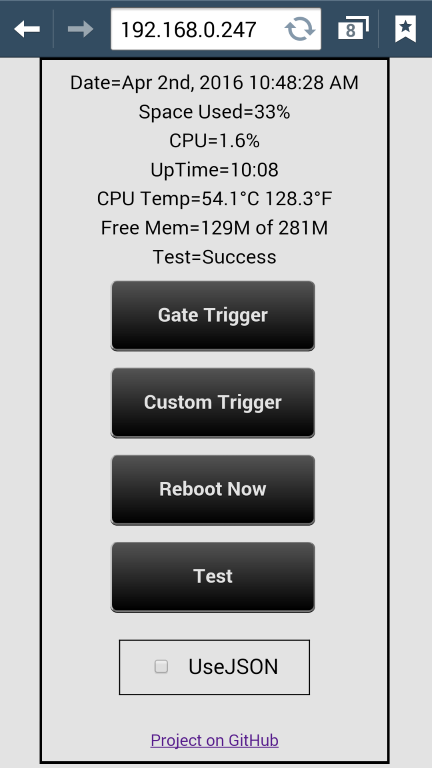
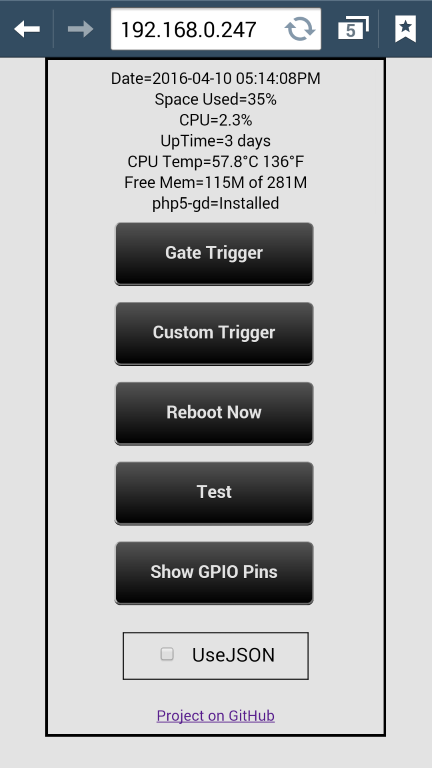
v1.0.20160410 - Changing device ID. Added more Echo functionality. Added a related GPIO status project & compatibility as the PHP is shared
v1.0.20160410 - Changing device ID to random number at end of execution
so multiple devices can point to one IP. Amazon Echo can run both
ON/main and OFF/custom functions. Added ability to output GPIO status in
PHP. Releasing another ST device that will pull the image and control
the installation of required packages hence the reset of device ID.

Changed region(s): [[0.0903, 0.0625, 0.9028, 1.0]]

diff --git a/Devices/Generic HTTP Device/index.php b/Devices/Generic HTTP Device/index.php
@@ -1,4 +1,4 @@
-<?php //v1.0.20160406
+<?php //v1.0.20160410
 
 $perform_authentication=false;
 
@@ -23,6 +23,12 @@ if ($perform_authentication) {
 		if (isset($_POST['RebootNow'])) {
 			echo "RebootNow=Failed : ";
 		}
+		if (isset($_POST['GPIO'])) {
+			echo "GPIO=Failed : ";
+		}
+		if (isset($_POST['GDInstall'])) {
+			echo "GDInstall=Failed : ";
+		}
 		die ("Authentication Required!");
 	}
 }
@@ -30,16 +36,18 @@ if ($perform_authentication) {
 
 //BUILD ARRAY VALUES
 date_default_timezone_set('America/Los_Angeles');
+//CHECK IF GD IS INSTALLED
+$gd_installed=false;
+foreach(get_loaded_extensions() as $name){ if ($name=='gd') {$gd_installed=true;}}
 $rpi = array(
-	"Date" => date("M jS, Y h:i:s A"),
+	"Date" => date("Y-m-d h:i:sA"),
 	"Space Used" => shell_exec('df -h|grep /dev/root | awk \'{print $(NF-1)}\' | tr -d \'\n\''),
 	"UpTime" => trim(substr(shell_exec('uptime'),strpos(shell_exec('uptime'), 'up')+2, strpos(shell_exec('uptime'), ',')-strpos(shell_exec('uptime'), 'up')-2)),
 	"CPU" => shell_exec('grep \'cpu \' /proc/stat | awk \'{usage=($2+$4)*100/($2+$4+$5)} END {print usage "%"}\' | sed \'s/\(\.[0-9]\).*$/\1%/g\' | tr -d \'\n\''),
 	"CPU Temp" => CPUTemp(),
-	//"CPU Temp" => function($name) {return 100;},
-	"Free Mem" => shell_exec('free -t -h | tr -s " " | grep "Total:" | awk -F " " \'{print $4 " of " $2}\' | tr -d \'\n\'')
+	"Free Mem" => shell_exec('free -t -h | tr -s " " | grep "Total:" | awk -F " " \'{print $4 " of " $2}\' | tr -d \'\n\''),
+	"php5-gd" => $gd_installed
 );
-
 function CPUTemp() {
 	$celcius = shell_exec('sudo vcgencmd measure_temp | sed "s/temp=//g" | tr -d \'\n\'');
 	$fahrenheit = round(substr(str_replace("C","",$celcius), 0, -1) * 1.8 + 32, 0) . "'F";
@@ -60,7 +68,34 @@ if (isset($_POST['RebootNow'])) {
 	shell_exec("sudo shutdown -r now");
 	$rpi = $rpi + array("RebootNow" => "Success");
 }
-
+if (isset($_POST['GDInstall']) && $rpi['php5-gd'] != "Installed") {
+	$gdinstalling = str_replace("\n","",shell_exec('sudo ps -ef | grep php5-gd | grep -v grep | wc -l'));
+	if ($gdinstalling=="0") {
+		shell_exec('sudo apt-get update; sudo apt-get -y install php5-gd --fix-missing ; sudo service apache2 restart');
+	}
+}
+if (isset($_POST['GPIO']) && $rpi['php5-gd'] == true) {
+	header("Content-type: image/jpeg");
+	$im = @imagecreate(400, 200) or die("Cannot initialize new GD image stream.");
+	$background_color = imagecolorallocate($im, 0, 0, 0);
+	$text_color = imagecolorallocate($im, 255, 255, 255);
+	$green = imagecolorallocate($im, 51, 102, 51);
+	$blue = imagecolorallocate($im, 51, 0, 255);
+	$red = imagecolorallocate($im, 255, 51, 102);
+	imagefilledrectangle($im, 8, 5, 196, 195, $green);
+	imagefilledrectangle($im, 203, 5, 391, 195, $blue);
+	imagefilledrectangle($im, 172, 0, 227, 11, $red);
+	$array = explode("\n", shell_exec("gpio readall"));
+	imagestring($im, 1.3, 0, 0, " ", $text_color);
+	$counter=0;
+	foreach ($array as $v) {
+		imagestring($im, 1.3, 0, $counter, $v, $text_color);
+		$counter = $counter + 12;
+	}
+	imagejpeg($im, NULL, 85);
+	imagedestroy($im);
+	exit;
+}
 if (isset($_POST['UseJSON'])) {
 	header('Content-type: application/json');
 	echo json_encode($rpi, JSON_PRETTY_PRINT);
@@ -74,52 +109,26 @@ if (isset($_POST['UseJSON'])) {
 <meta name=viewport content='width=700'>
 <style type='text/css'>
 body, pre	 {
-	max-width: 640px;
-	margin: 0 auto;
-	font-family: Calibri,Arial,Helvetica,sans-serif;
-	background-color: #E3E3E3;
-	font-size: 1.2em;
-	line-height: 1.5em;
+	max-width: 640px; margin: 0 auto; font-family: Calibri,Arial,Helvetica,sans-serif;
+	background-color: #E3E3E3; font-size: 1.1em; line-height: 1.3em;
 }
 .btn {
-	font-family: 'Open Sans';
-	font-weight: bold;
-	font-size: 1.2em;
-	foreground-color: white;
-	line-height: 3em;
-	margin: 10px 0px;
-	width: 240px;
-	border-top: 1px solid #969696;
-	background: #000000;
+	font-family: 'Open Sans'; font-weight: bold; font-size: 1.2em; foreground-color: white;
+	line-height: 3em; margin: 10px 0px; width: 240px; border-top: 1px solid #969696;
+	background: #000000; padding: 5px 10px;
 	background: -webkit-gradient(linear, left top, left bottom, from(#545454), to(#000000));
-	background: -webkit-linear-gradient(top, #545454, #000000);
-	background: -moz-linear-gradient(top, #545454, #000000);
-	background: -ms-linear-gradient(top, #545454, #000000);
-	background: -o-linear-gradient(top, #545454, #000000);
-	padding: 5px 10px;
-	-webkit-border-radius: 8px;
-	-moz-border-radius: 8px;
-	border-radius: 8px;
-	-webkit-box-shadow: rgba(0,0,0,1) 0 1px 0;
-	-moz-box-shadow: rgba(0,0,0,1) 0 1px 0;
-	box-shadow: rgba(0,0,0,1) 0 1px 0;
-	text-shadow: rgba(0,0,0,.4) 0 1px 0;
-	color: #e3e3e3 !important;
-	text-decoration: none;
-	vertical-align: middle;
+	background: -webkit-linear-gradient(top, #545454, #000000); background: -moz-linear-gradient(top, #545454, #000000);
+	background: -ms-linear-gradient(top, #545454, #000000); background: -o-linear-gradient(top, #545454, #000000);
+	-webkit-border-radius: 8px; -moz-border-radius: 8px; border-radius: 8px;
+	-webkit-box-shadow: rgba(0,0,0,1) 0 1px 0; -moz-box-shadow: rgba(0,0,0,1) 0 1px 0;
+	box-shadow: rgba(0,0,0,1) 0 1px 0; text-shadow: rgba(0,0,0,.4) 0 1px 0;
+	color: #e3e3e3 !important; text-decoration: none; vertical-align: middle;
 }
 .btn:hover {
-   border-top-color: #4f4f4f;
-   background: #4f4f4f;
-   color: #ccc;
-   text-decoration:none;
+   border-top-color: #4f4f4f; background: #4f4f4f; color: #ccc; text-decoration:none;
 }
 .center {
-	margin: auto;
-	width: 60%;
-	border: 3px solid #000000;
-	padding: 10px;
-	text-align: center;
+	margin: auto; width: 60%; border: 3px solid #000000; padding: 10px; text-align: center;
 }
 </style>
 </head>
@@ -141,6 +150,7 @@ echo "CPU Temp=".str_replace("'","°",$rpi['CPU Temp'])."\n";
 //FREE MEMORY
 echo "Free Mem=".$rpi['Free Mem']."\n";
 
+echo ($rpi['php5-gd']) ? "php5-gd=Installed\n" : "php5-gd=Not installed\n";
 if (isset($_POST['GateTrigger'])) { echo "GateTrigger=Success\n"; }
 if (isset($_POST['Test'])) { echo "Test=Success\n"; }
 if (isset($_POST['CustomTrigger'])) { echo "CustomTrigger=Success\n"; }
@@ -157,6 +167,13 @@ if (isset($_POST['RebootNow'])) { echo "RebootNow=Success\n"; }
 	<br/>
 	<button class="btn" name="Test">Test</button>
 	<br/>
+	<?php if ($rpi['php5-gd'] == "Installed") { ?>
+		<button class="btn" name="GPIO" target="_blank">Show GPIO Pins</button>
+		<br/>
+	<?php } else { ?>
+		<button class="btn" name="GDInstall">Install php5-gd</button>
+		<br/>
+	<?php } ?>
 	<div class="center" style="transform: scale(1.3); -webkit-transform: scale(1.3); margin-top:30px; width:150px;border:1px solid;"><input type="checkbox" name="UseJSON" value="">&nbsp;&nbsp;&nbsp;UseJSON</input></div>
 	<br/>
 </form>

diff --git a/Devices/Generic HTTP Device/README.md b/Devices/Generic HTTP Device/README.md
@@ -8,12 +8,15 @@ The Groovy file is the Device Handler for SmartThings.
 index.php is meant to reside in /var/www/html folder of the Raspbery Pi and runs the external gpio command in Linux.
 At the top of index.php, change the first variable to "true" instead of "false" and this will make the PHP page protected with basic authentication. After making that change, make sure to change the SmartThings preferences for the device.
 
-This project was tested successfully via an external IP, with an Amazon Echo/Alexa and Pollster. Here's a useful command for checking the Raspberry Pi pin status & value. It's pretty close to what WebIOPi offers but in text mode and refreshes every half second: watch -n0.5 gpio readall
+This project was tested successfully via an external IP, Pollster and with an Amazon Echo/Alexa. Echo can run TWO functions in my app. The ON command triggers the main function and OFF triggers the custom function.
+
+Here's a useful command for checking the Raspberry Pi pin status & value. It's pretty close to what WebIOPi offers but in text mode and refreshes every half second: watch -n0.5 gpio readall
 
 This is the original video that I used for the Raspberry Pi piece: https://www.youtube.com/watch?v=p2abZ90-eU0
 
 The SmartThings driver was a few hours of self-learning and a bit of frustration --- I really wanted that value tile to show me the last time the script ran WITH SUCCESS.
 
+</br>v1.0.20160410 - Changing device ID to random number at end of execution so multiple devices can point to one IP. Amazon Echo can run both ON/main and OFF/custom functions. Added ability to output GPIO status in PHP. Releasing another ST device that will pull the image and control the installation of required packages hence the reset of device ID.
 </br>v1.0.20160407 - Added Poll & Refresh to execute the TEST function. Now able to add the switch to Pollster and should see the time update in Test Triggered. Validated external IP with custom port and Amazon Echo/Alexa.
 </br>v1.0.20160406 - Added the CustomTrigger button. Made buttons smaller. CPU Temp now accurately converts C to F. Added color to some tiles. Defaulting in port & body if left empty in prefs.
 </br>v1.0.20160405 - Modified Space Used to use awk instead of cut and delimiters. GitHub reported bug.
@@ -23,5 +26,5 @@ The SmartThings driver was a few hours of self-learning and a bit of frustration
 </br>v1.0.20160326 - Added temperature. Added basic authentication.
 </br>v1.0.20160323 - Initial version
 </br>
-<img src="https://github.com/JZ-SmartThings/SmartThings/blob/master/Devices/Generic%20HTTP%20Device/Screenshot_Android_App.png">
-<img src="https://github.com/JZ-SmartThings/SmartThings/blob/master/Devices/Generic%20HTTP%20Device/Screenshot_PHP_Page.png">
+<img src="https://raw.githubusercontent.com/JZ-SmartThings/SmartThings/master/Devices/Generic%20HTTP%20Device/Screenshot_Android_App.png">
+<img src="https://raw.githubusercontent.com/JZ-SmartThings/SmartThings/master/Devices/Generic%20HTTP%20Device/Screenshot_PHP_Page.png">
